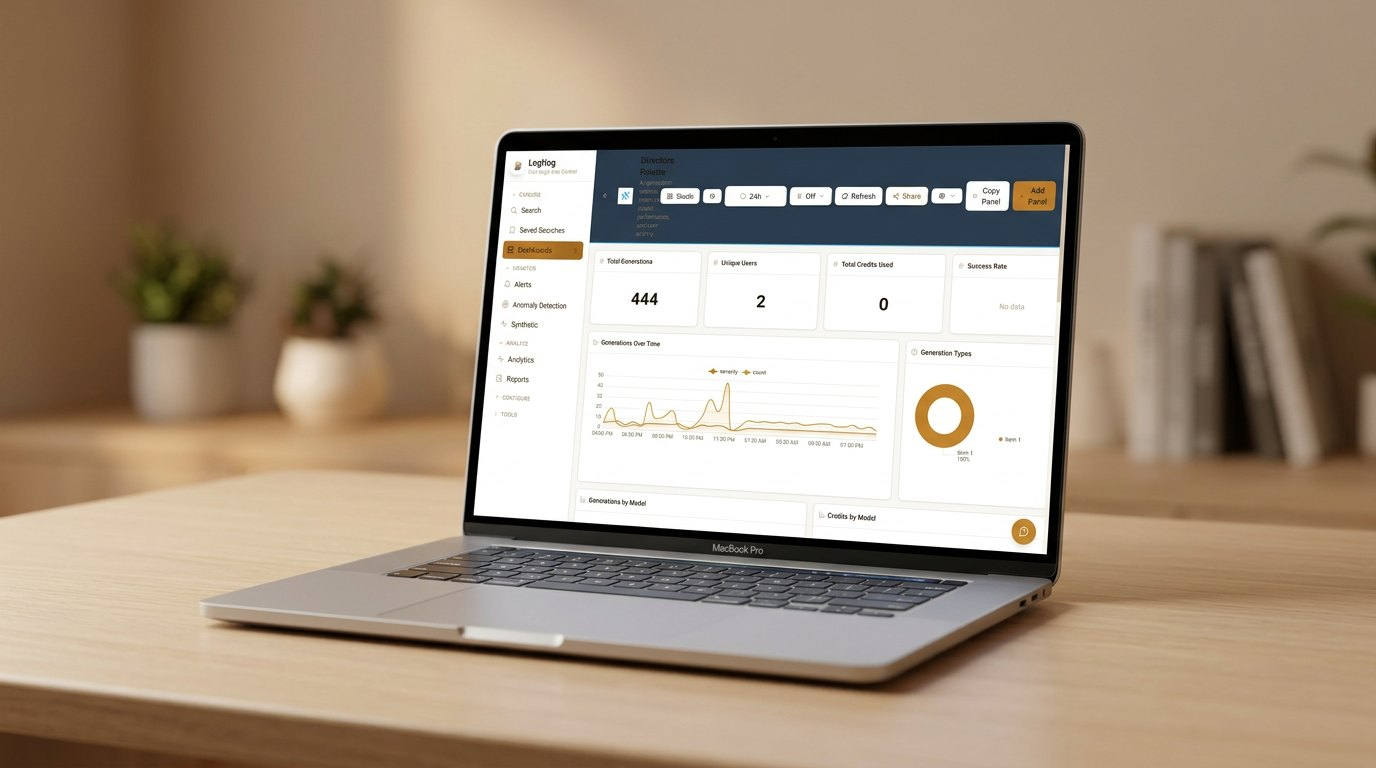
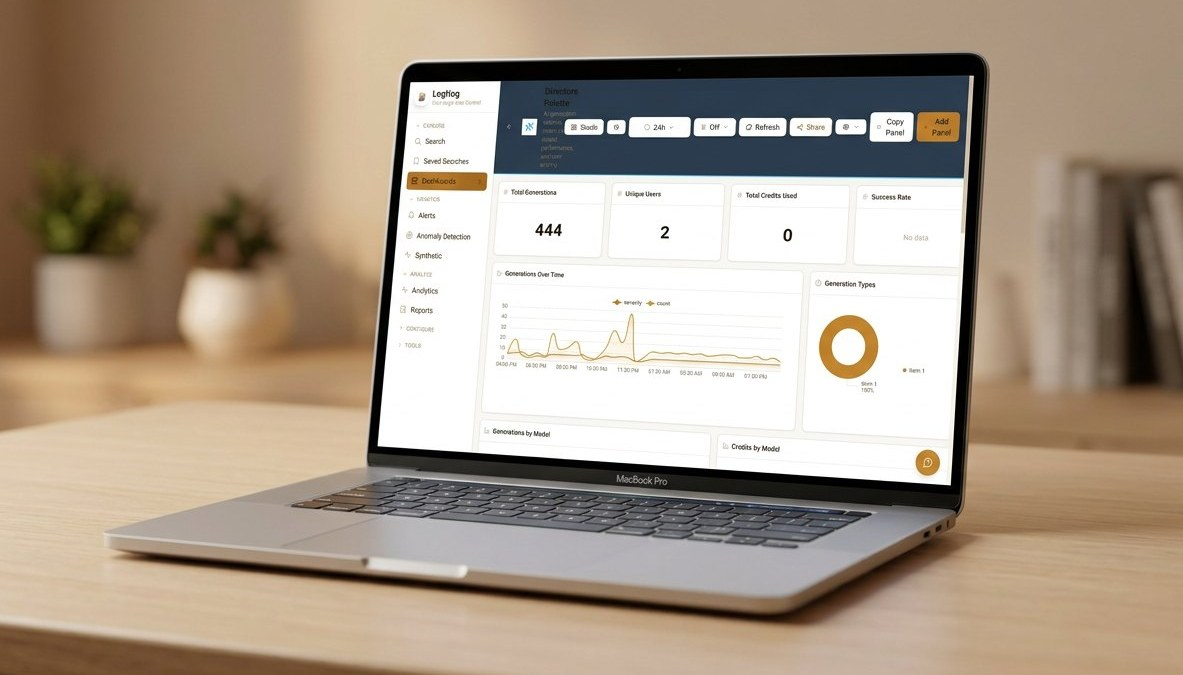
ui: tighter guide-image crops + split-screen login with hero
Crop all 8 Directors Palette device mockups ~7% sides / 9% top / 3% bottom so the on-screen dashboard reads more prominently while keeping a hint of the desk/room. Rebuild login as a split-screen: DP hero (real LogNog dashboard on a desk) with a chocolate brand wash + tagline on one side, the sign-in form on the other; collapses to a centered form on mobile.

diff --git a/ui/src/pages/LoginPage.tsx b/ui/src/pages/LoginPage.tsx
@@ -76,18 +76,58 @@ export default function LoginPage() {
   }
 
   return (
-    <div className="min-h-screen flex items-center justify-center bg-gradient-to-br from-nog-100 to-nog-200 dark:from-nog-950 dark:to-nog-900 p-4 relative">
-      {/* Back to Landing */}
-      <Link
-        to="/"
-        className="absolute top-4 sm:top-6 left-4 sm:left-6 flex items-center gap-1.5 sm:gap-2 px-2 sm:px-3 py-1.5 sm:py-2 text-nog-600 dark:text-nog-400 hover:text-nog-900 dark:hover:text-nog-100 hover:bg-nog-200/50 dark:hover:bg-nog-700/50 rounded-lg transition-all text-sm sm:text-base"
-      >
-        <ArrowLeft className="w-4 sm:w-5 h-4 sm:h-5" />
-        <span className="font-medium hidden sm:inline">Back to Home</span>
-        <span className="font-medium sm:hidden">Back</span>
-      </Link>
+    <div className="min-h-screen lg:grid lg:grid-cols-[1.1fr_1fr] bg-gradient-to-br from-nog-100 to-nog-200 dark:from-nog-950 dark:to-nog-900">
+      {/* Hero panel — real LogNog dashboard on a desk (hidden on small screens) */}
+      <aside className="relative hidden lg:block overflow-hidden">
+        <img
+          src="/login-hero.jpg"
+          alt="LogNog dashboard on a desk"
+          className="absolute inset-0 w-full h-full object-cover"
+        />
+        {/* Chocolate brand wash for legibility + warmth */}
+        <div className="absolute inset-0 bg-gradient-to-t from-[#2A1B0E]/95 via-[#3D2A18]/55 to-[#3D2A18]/20" />
+        <div className="absolute inset-0 bg-gradient-to-r from-transparent to-[#3D2A18]/40" />
 
-      <div className="w-full max-w-md mt-12 sm:mt-0">
+        {/* Copy overlay */}
+        <div className="relative h-full flex flex-col justify-end p-10 xl:p-14">
+          <div className="flex items-center gap-3 mb-5">
+            <img src="/logo.png" alt="" className="w-11 h-11 rounded-xl shadow-lg object-cover" />
+            <span className="text-2xl font-bold text-honey-50 tracking-tight">LogNog</span>
+          </div>
+          <h2 className="text-3xl xl:text-4xl font-bold text-honey-50 leading-tight tracking-tight max-w-md">
+            Every log, every signal — under your control.
+          </h2>
+          <p className="mt-4 text-honey-100/80 text-base max-w-md leading-relaxed">
+            Search, dashboard, and alert on your logs in one self-hosted place.
+            No seat limits, no data leaving your walls.
+          </p>
+          <ul className="mt-7 flex flex-wrap gap-x-6 gap-y-2 text-sm text-honey-100/90">
+            <li className="flex items-center gap-2">
+              <span className="w-1.5 h-1.5 rounded-full bg-honey-400" /> Splunk-style search
+            </li>
+            <li className="flex items-center gap-2">
+              <span className="w-1.5 h-1.5 rounded-full bg-honey-400" /> Live dashboards
+            </li>
+            <li className="flex items-center gap-2">
+              <span className="w-1.5 h-1.5 rounded-full bg-honey-400" /> Smart alerts
+            </li>
+          </ul>
+        </div>
+      </aside>
+
+      {/* Form panel */}
+      <main className="relative flex items-center justify-center p-4 min-h-screen lg:min-h-0">
+        {/* Back to Landing */}
+        <Link
+          to="/"
+          className="absolute top-4 sm:top-6 left-4 sm:left-6 flex items-center gap-1.5 sm:gap-2 px-2 sm:px-3 py-1.5 sm:py-2 text-nog-600 dark:text-nog-400 hover:text-nog-900 dark:hover:text-nog-100 hover:bg-nog-200/50 dark:hover:bg-nog-700/50 rounded-lg transition-all text-sm sm:text-base"
+        >
+          <ArrowLeft className="w-4 sm:w-5 h-4 sm:h-5" />
+          <span className="font-medium hidden sm:inline">Back to Home</span>
+          <span className="font-medium sm:hidden">Back</span>
+        </Link>
+
+        <div className="w-full max-w-md mt-12 lg:mt-0">
         {/* Logo */}
         <div className="text-center mb-6 sm:mb-8">
           <img
@@ -270,11 +310,12 @@ export default function LoginPage() {
           )}
         </div>
 
-        {/* Footer */}
-        <p className="mt-6 text-center text-sm text-nog-500 dark:text-nog-400">
-          LogNog - Your Logs, Your Control
-        </p>
-      </div>
+          {/* Footer */}
+          <p className="mt-6 text-center text-sm text-nog-500 dark:text-nog-400">
+            LogNog - Your Logs, Your Control
+          </p>
+        </div>
+      </main>
     </div>
   );
 }
